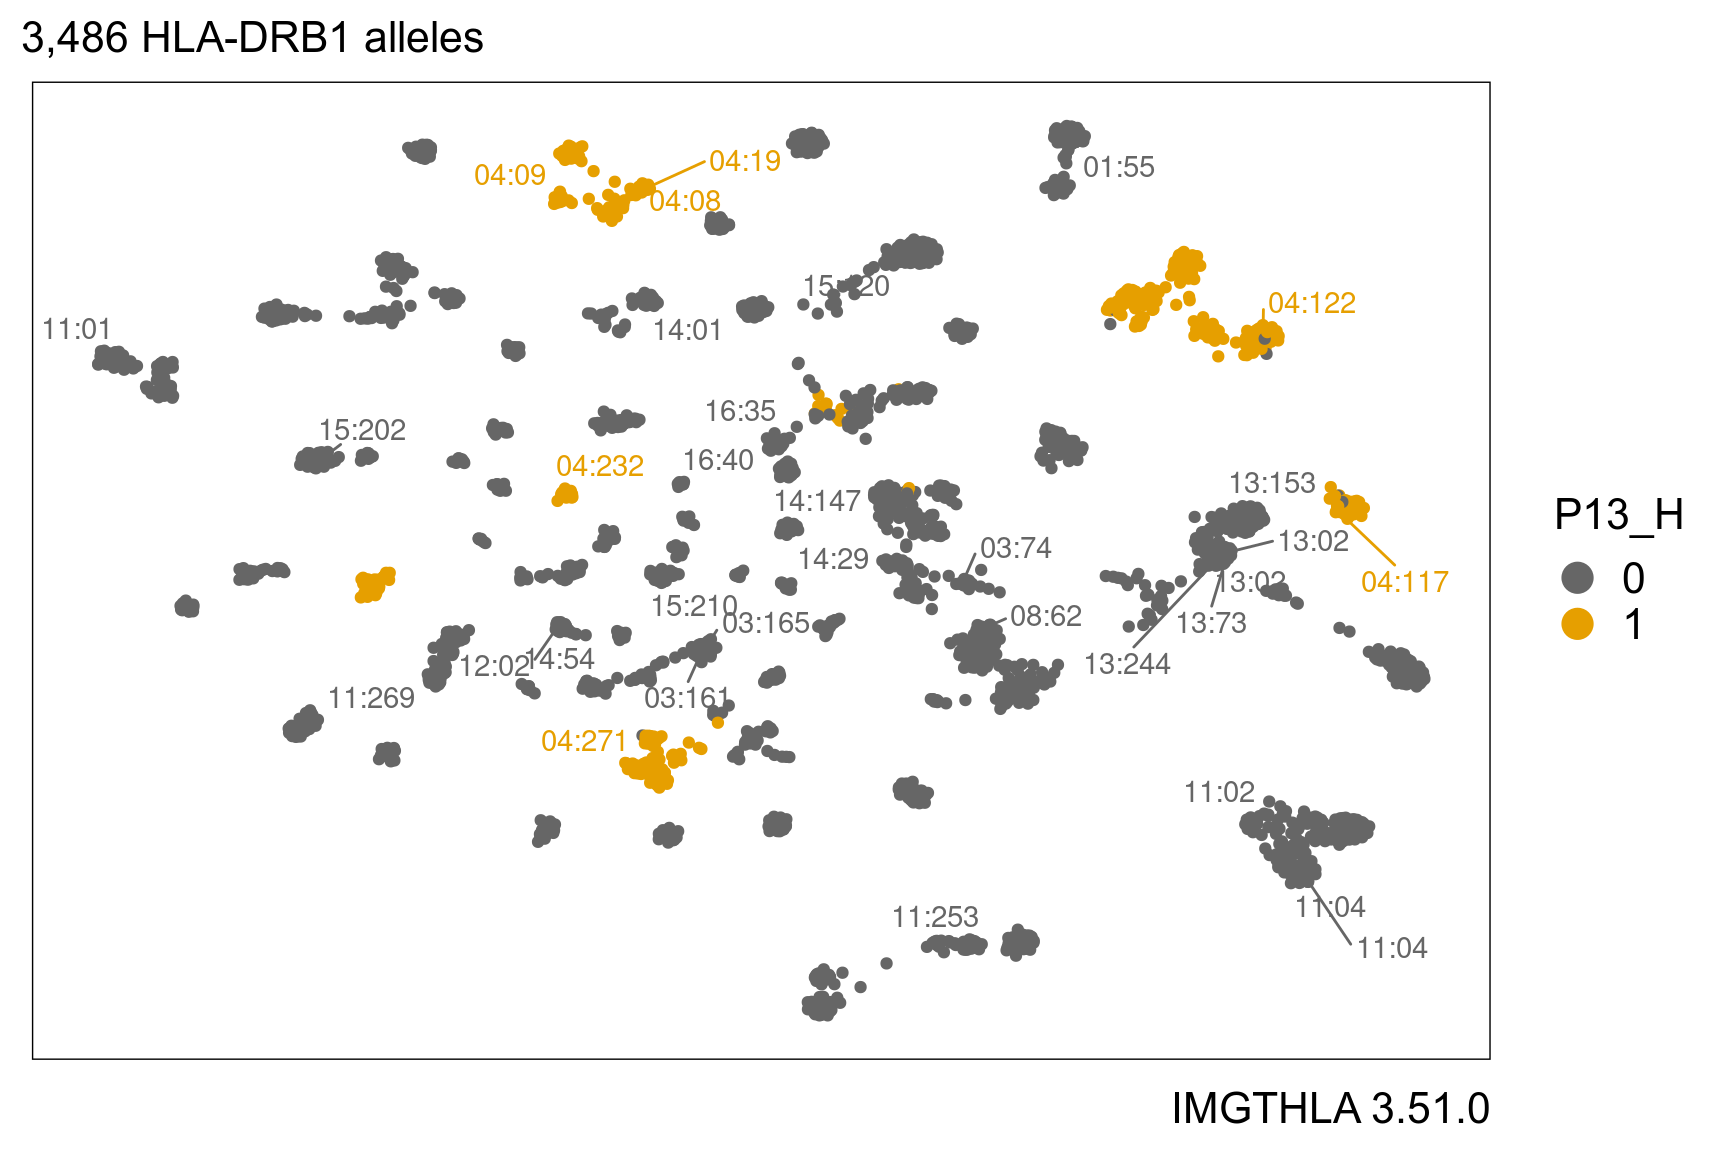
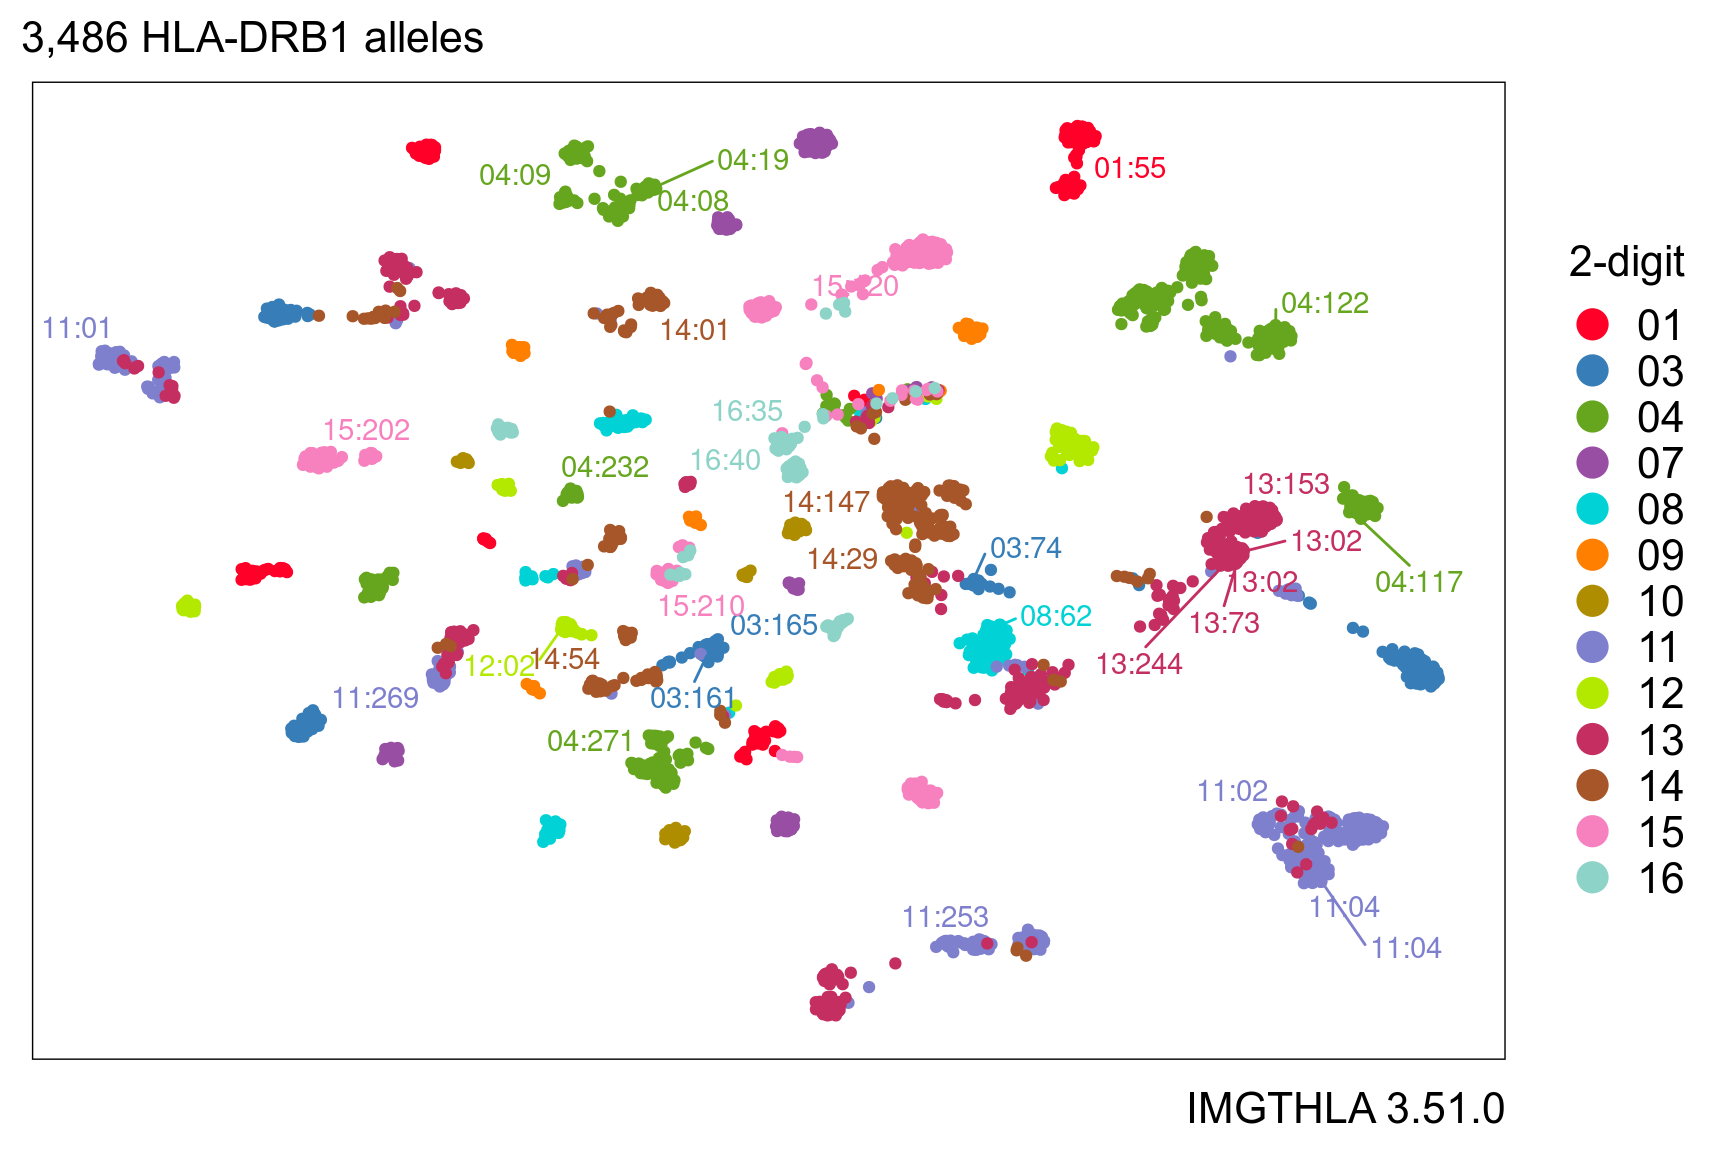
update

diff --git a/README.md b/README.md
@@ -64,19 +64,32 @@ a$sequences[1:5,]
     ## 4 DRB1*01:01:01:04 ------------------------------------------------------.-----------.-------------…
     ## 5 DRB1*01:01:01:05 ------------------------------------------------------.-----------.-------------…
 
+And a matrix:
+
+``` r
+a$aminos[1:5,1:10]
+```
+
+    ##                  Pn29 Pn28 Pn27 Pn26 Pn25 Pn24 Pn23 Pn22 Pn21 Pn20
+    ## DRB1*01:01:01:01    M    V    C    L    K    L    P    G    G    S
+    ## DRB1*01:01:01:02    M    V    C    L    K    L    P    G    G    S
+    ## DRB1*01:01:01:03    M    V    C    L    K    L    P    G    G    S
+    ## DRB1*01:01:01:04    M    V    C    L    K    L    P    G    G    S
+    ## DRB1*01:01:01:05    M    V    C    L    K    L    P    G    G    S
+
 And we get a one-hot encoded matrix with one column for each amino acid
 at each position:
 
 ``` r
-a$onehot[1:5,1:5]
+a$onehot[1:5,1:10]
 ```
 
-    ##                  Pn29_M Pn28_V Pn27_C Pn26_L Pn25_K
-    ## DRB1*01:01:01:01      1      1      1      1      1
-    ## DRB1*01:01:01:02      1      1      1      1      1
-    ## DRB1*01:01:01:03      1      1      1      1      1
-    ## DRB1*01:01:01:04      1      1      1      1      1
-    ## DRB1*01:01:01:05      1      1      1      1      1
+    ##                  Pn29_M Pn28_V Pn27_C Pn26_L Pn25_K Pn25_R Pn24_F Pn24_L Pn23_P Pn22_G
+    ## DRB1*01:01:01:01      1      1      1      1      1      0      0      1      1      1
+    ## DRB1*01:01:01:02      1      1      1      1      1      0      0      1      1      1
+    ## DRB1*01:01:01:03      1      1      1      1      1      0      0      1      1      1
+    ## DRB1*01:01:01:04      1      1      1      1      1      0      0      1      1      1
+    ## DRB1*01:01:01:05      1      1      1      1      1      0      0      1      1      1
 
 Now, suppose we have some individuals with the following genotypes:
 
@@ -197,7 +210,7 @@ my_glm %>%
 The volcano below shows the Odds Ratio and P-value for each amino acid
 position. The top hits with P &lt; 0.05 are labeled.
 
-![](README_files/figure-markdown_github/unnamed-chunk-12-1.png)
+![](README_files/figure-markdown_github/unnamed-chunk-13-1.png)
 
 UMAP embedding of 3,486 HLA-DRB1 alleles
 ----------------------------------------
@@ -210,11 +223,16 @@ position.
 uamp(a$onehot, n_epochs = 200, min_dist = 1, spread = 2)
 ```
 
-![](README_files/figure-markdown_github/unnamed-chunk-14-1.png)
+![](README_files/figure-markdown_github/unnamed-chunk-15-1.png)
 
 We can highlight which alleles have amino acid H at position 13:
 
-![](README_files/figure-markdown_github/unnamed-chunk-15-1.png)
+![](README_files/figure-markdown_github/unnamed-chunk-16-1.png)
+
+Or we can represent each amino acid at position 13 with a different
+color:
+
+![](README_files/figure-markdown_github/unnamed-chunk-17-1.png)
 
 Download and unpack the latest release from IMGTHLA
 ---------------------------------------------------
